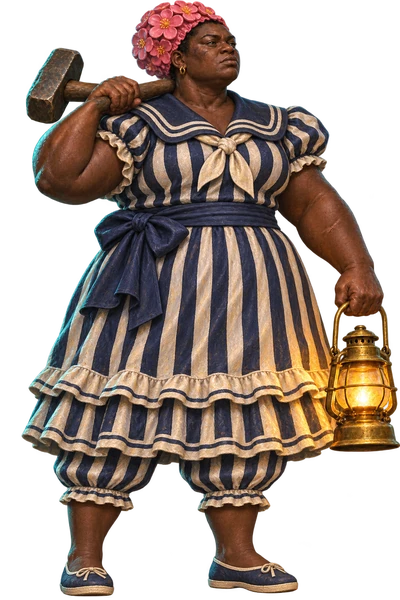
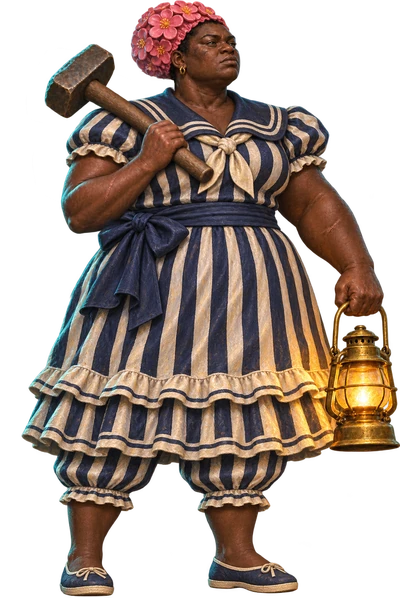
Drafts: Abena carries her sledgehammer over the shoulder
Her old pose ran her forearm almost along the handle, so no grip could work without a hard-bent wrist; the handle had a stray angled end under her fist. Her arm and hammer are re-posed (carry A, the user's pick), with the leaning carry kept as an alternative (abena-leaning.webp). The seaside costume carries it the same way. Drafts only, not in the game.

Changed region(s): [[0.06, 0.06, 0.54, 0.51], [0.36, 0.0, 0.39, 0.03], [0.33, 0.03, 0.36, 0.06]]

diff --git a/GAME_NOTES.md b/GAME_NOTES.md
@@ -2003,7 +2003,7 @@ The user asked how more characters could be added, and wanted to judge the look 
   | dev | Dev, a ship's boy of about 14, South Asian (the user's pick of two tunings) | dev-tuned-b.png | 155, 526, 0.78 |
   | tavita | Tavita, a giant Samoan hauler with an anchor | tavita.png | 124, 552, 1.14 |
   | rook | Rook, an androgynous Latin American whaler with a peg leg | rook.png | 150, 592, 1.0 |
-  | abena | Abena, a big Black anchor-smith with a sledgehammer | abena-fixed.png | 145, 565, 1.06 |
+  | abena | Abena, a big Black anchor-smith with a sledgehammer | abena-carry.png | 145, 565, 1.06 |
   | esi | Esi, a slim Black rigging runner with a rope dart (ochre trousers, so she shows on a phone) | esi-tuned-b.png | 228, 588, 1.03 |
   | engine | The Lamp Engine, the keepers' clockwork bell-tender | engine.png | 90, 572, 1.1 |
   | gulp | Gulp, a sea monster who wants to be a keeper | gulp.png | 160, 610, 0.9 |
@@ -2016,6 +2016,21 @@ The user asked how more characters could be added, and wanted to judge the look 
 
 - **Mateo:** the user kept the concept, but in the first picture his arm went through the shield and one hand held both the shield and the mallet. It was redrawn twice, with the anatomy spelled out in the prompt. In 2b the shield is strapped to his left forearm and the mallet is in his right hand.
 - **Abena:** her first picture had a broken sledgehammer, with the head partway along the handle and the handle sticking out on both sides (the user spotted it). Only the hammer area of a Codex edit was pasted back (`abena-fixed.png`), so the rest of her is unchanged.
+  - 2026-11-15, the user again: the handle was still not straight. Codex's fix had drawn a second handle end under her fist, lying along her wrist at an angle and fading into her forearm, and the piece behind her neck rose about 15 degrees. Both Codex attempts had bent handles, so this one was scripted, not regenerated (`abena-straight.png`):
+    - the piece behind her neck is sheared down (0.27 px per px from her fist) until its centre line is level with the piece by the head; the sliver it leaves is transparent, so the night shows between her head and the handle;
+    - the stray end is painted out as wrist skin: a smooth fill from the surrounding skin, plus fine grain taken from her forearm.
+
+    Only the hammer area changed (canvas pixels 90-177 x 73-112). Her seaside costume is an edit of the same picture and had the same faults, so it got the same fix (`abena-cheeky-straight.png`).
+  - Then the user saw that her fist gripped empty air. It had been painted round the stray end, so its curl was low on the left, and with the end gone it was a closed ball sitting in front of the handle. Codex repainted only the hand on the straightened picture, in two grips (`abena-grip-a.png`, `abena-grip-b.png`, both 1 px off, shifted back). The whole hand area was pasted back as one feathered polygon, because a diff mask left holes where old and new skin matched. The draft uses B (`abena-grip.png`): her palm is under the handle, her thumb lies along its top toward the head, and her fingers close over the front. Her forearm comes up from below, so this is the natural way to carry a sledgehammer on the shoulder. A (knuckles on top, fingers wrapped down over the front) needs a sharply bent wrist; it is on the artifact page as an alternative.
+  - The seaside costume got the same grip: a Codex edit of `abena-cheeky-straight.png` with `abena-grip.png` as the hand reference (`abena-cheeky-grip-edit.png`, 0 px off), pasted back with the same polygon (`abena-cheeky-grip.png`).
+  - Lesson: when a picture's prop is wrong, check the hand that holds it. Codex paints the hand round whatever it drew, so fixing only the prop leaves the hand holding the old shape.
+  - The user turned grip B down too: her thumb looked to be on the wrong side, and "it's a very weird way of holding a heavy hammer ... would likely lead to wrist pain". The real cause was the pose. Her forearm came up from the elbow at about 40 degrees and ran almost along the handle, so no grip on that handle could work without a hard-bent wrist; that is also why Codex kept drawing angled handle pieces. A comfortable hold needs the fist round the handle at about a right angle to the forearm, wrist straight.
+  - Codex re-posed her right arm and the hammer three ways (`abena-carry-a/b/c.png`; the changed region of each was pasted back, so her face and body are unchanged):
+    - A, over the shoulder: the handle on her shoulder with the head behind it, her fist near the end of the handle in front of her chest, elbow down;
+    - B, raised: her arm as before, but her fist is up by the head and the handle runs down across her forearm to rest its end on her shoulder;
+    - C, leaning on it: the head on the ground by her boot, her hand on top of the handle.
+
+    The user picked A for the draft (`abena-carry.png`) and kept C as the alternative (`abena-leaning.png`, draft `drafts/keepers/abena-leaning.webp`); B is set aside. In C the handle is thin on a phone. The seaside costume got carry A too: a Codex edit of `abena-cheeky-grip.png` with `abena-carry.png` as the reference, its changed region pasted back (`abena-cheeky-carry.png`).
 - **Set aside:**
   - Tamsin, Abel and Ness (round 1, too alike: all white, all in similar coats);
   - Hae-won, Wei, Setsuko and Kenji;
